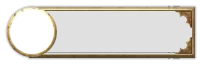
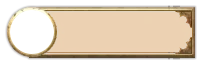
Re-add stored builds skill tree verification, tooltip dynamic height fix, play with skill background color scheme

diff --git a/frontend/src/utils/storageFunctions.ts b/frontend/src/utils/storageFunctions.ts
@@ -70,17 +70,16 @@ const setActiveBuildFromStorage = (
   const newCharacterBuild = createCharacterBuildFromArray(loadBuild, state.characterData, game, faction, character);
   dispatch({ type: AppContextActions.changeCharacterBuild, payload: { characterBuild: newCharacterBuild } });
 
-  // Skill verification has some quirks that need sorting still
-  // if (isValidSkillTree(newCharacterBuild, state.characterData)) {
-  //   dispatch({ type: AppContextActions.changeCharacterBuild, payload: { characterBuild: newCharacterBuild } });
-  // } else {
-  //   toast.error(
-  //     'The build you are trying to load is invalid, this may have been caused by an update or bugfix to the character tree. Sorry!',
-  //     { id: `${buildName} set storage build`, duration: 6000 }
-  //   );
-  //   const emptyCharacterBuild = createEmptyCharacterBuild(state.characterData, game, faction, character);
-  //   dispatch({ type: AppContextActions.changeCharacterBuild, payload: { characterBuild: emptyCharacterBuild } });
-  // }
+  if (isValidSkillTree(newCharacterBuild, state.characterData)) {
+    dispatch({ type: AppContextActions.changeCharacterBuild, payload: { characterBuild: newCharacterBuild } });
+  } else {
+    toast.error(
+      'The build you are trying to load is invalid, this may have been caused by an update or bugfix to the character tree. Sorry!',
+      { id: `${buildName} set storage build`, duration: 6000 }
+    );
+    const emptyCharacterBuild = createEmptyCharacterBuild(state.characterData, game, faction, character);
+    dispatch({ type: AppContextActions.changeCharacterBuild, payload: { characterBuild: emptyCharacterBuild } });
+  }
 };
 
 const loadBuildsFromStorage = (state: ContextStateInterface) => {

diff --git a/frontend/src/components/Planner/SkillAbilityTooltip.tsx b/frontend/src/components/Planner/SkillAbilityTooltip.tsx
@@ -34,7 +34,7 @@ const SkillAbilityTooltip = ({ ability }: SkillAbilityTooltipPropInterface) => {
     }
   });
   return (
-    <div className="flex-grow min-w-[15vw] ml-2 p-2 rounded border border-gray-400 shadow-lg text-lg text-gray-50 bg-gray-600">
+    <div className="flex-grow h-fit min-w-[15vw] ml-2 p-2 rounded border border-gray-400 shadow-lg text-lg text-gray-50 bg-gray-600">
       <div className="flex flex-row ml-4">
         <h3 className="text-left whitespace-nowrap text-2xl pr-6 mr-auto">{unitAbility.description}</h3>
         {unitAbility.num_uses !== undefined && unitAbility.num_uses > 0 && (
